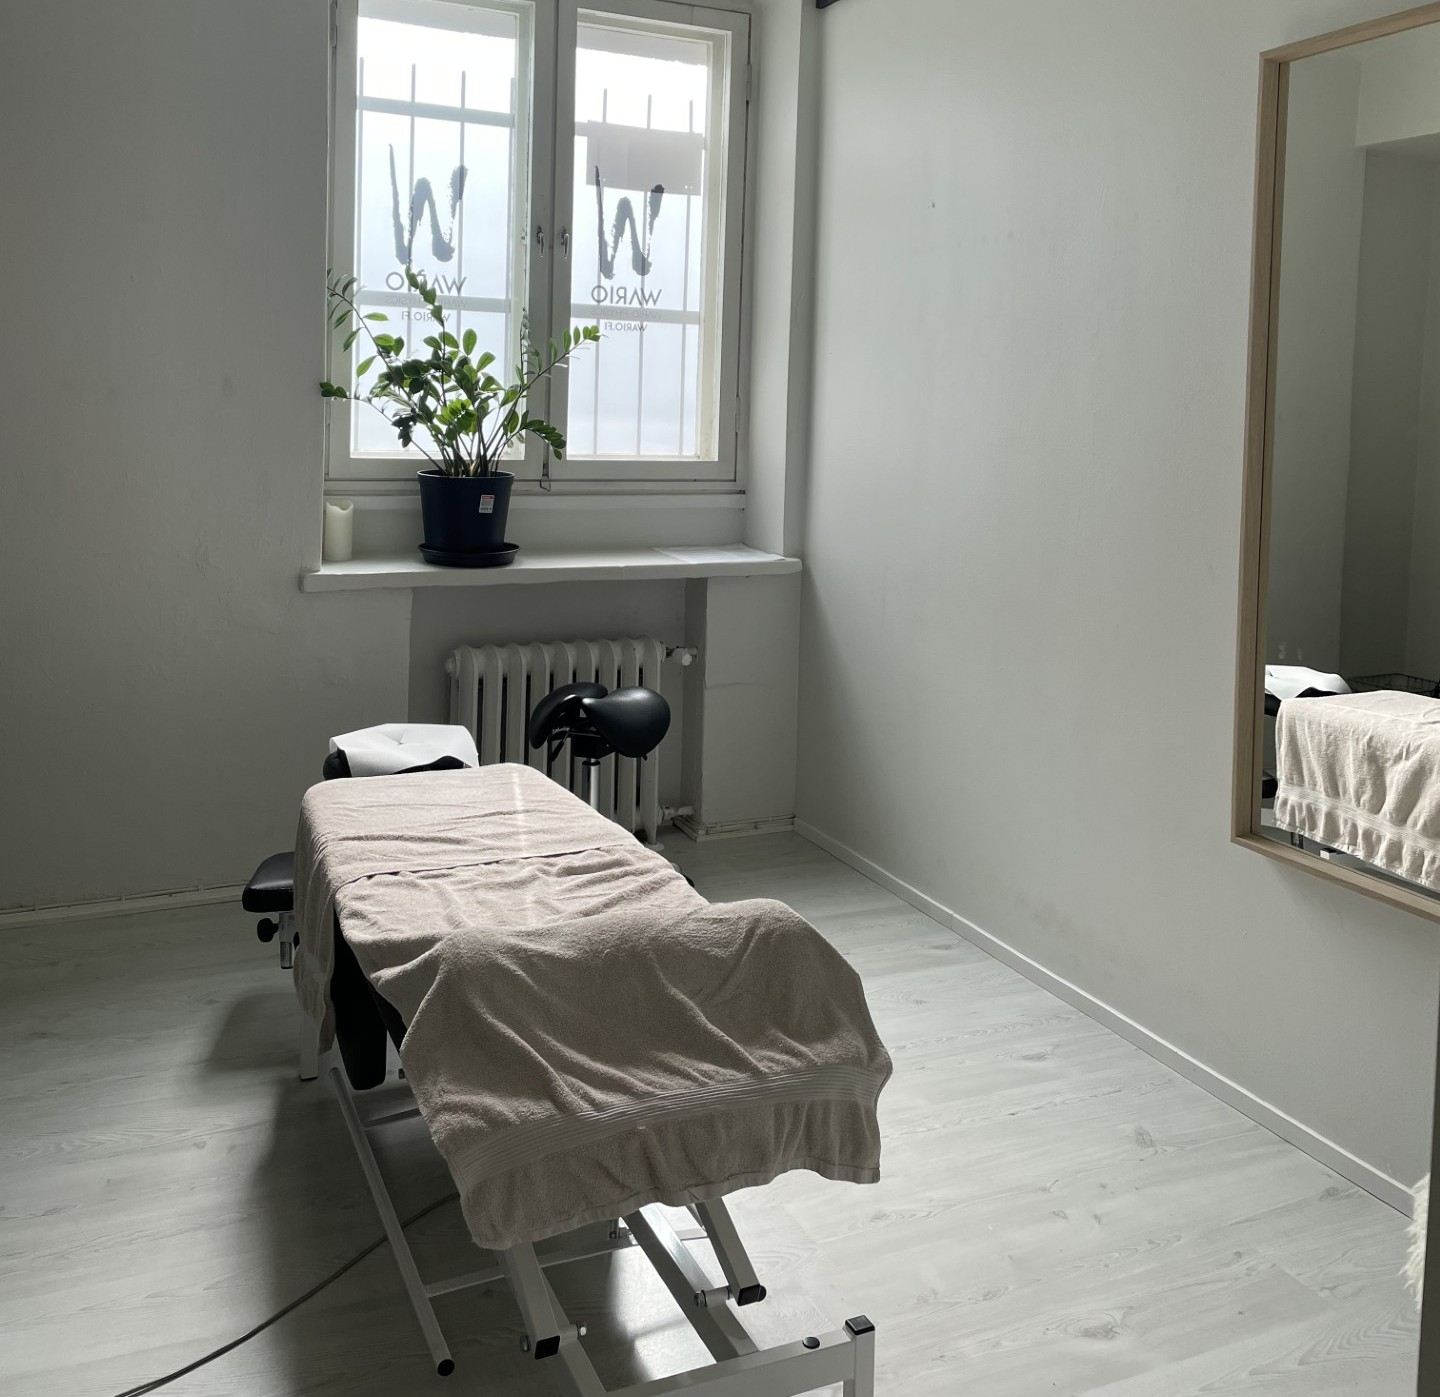
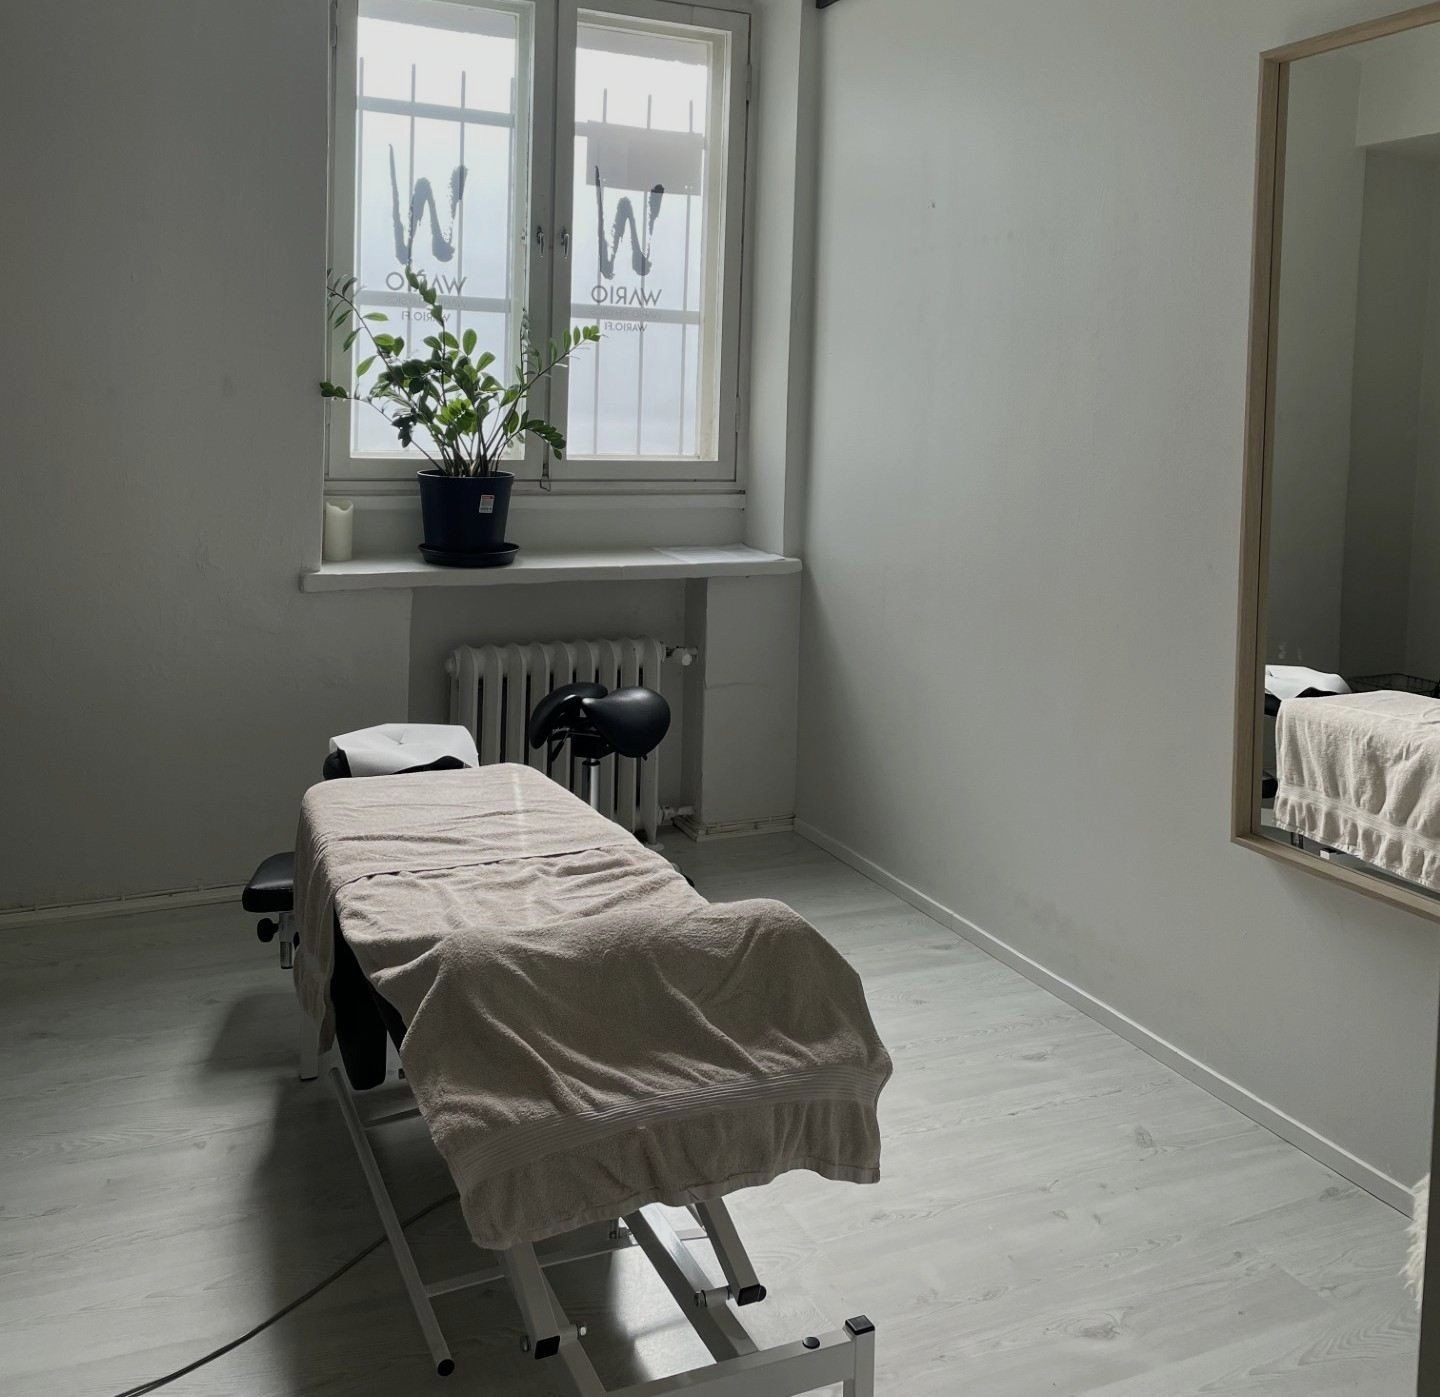
v

diff --git a/Nettisivut/tyylit.css b/Nettisivut/tyylit.css
@@ -93,7 +93,7 @@ nav a:hover {
 .toimintakehote {
     border: 1.5px solid #FFFFF0;
     border-radius: 10px;
-    background-color: #8fbc8f71;
+    background-color: #8fbc8f98;
     font-family: "Verdana", sans-serif;
     color: #FFFFF0;
     padding: 10px 32px;
@@ -108,7 +108,7 @@ nav a:hover {
 /* Etusivun asettelu */
 #etusivu {
     position: relative;
-    background-image: url("kuvat/paakuva-hieromapoyta.jpg");
+    background-image: url("kuvat/paakuva-hieromapoyta1.jpg");
     background-size: cover;
     background-position: center;
     height: 950px;
@@ -265,7 +265,7 @@ footer {
 /*mobiilikoko*/
 @media (max-width: 600px) {
     #etusivu {
-        background-image: url(kuvat/paakuva-hieromapoyta.jpg);
+        background-image: url(kuvat/paakuva-hieromapoyta1.jpg);
         background-size: cover;
         height: 400px;
     }
@@ -338,7 +338,7 @@ footer {
 /*tablettikoko*/
 @media screen and (min-width: 600px) {
     #etusivu {
-        background-image: url(kuvat/paakuva-hieromapoyta.jpg);
+        background-image: url(kuvat/paakuva-hieromapoyta1.jpg);
         background-size: cover;
         height: 600px;
     }
@@ -353,10 +353,10 @@ footer {
 
     #slogan {
         font-size: 40px;
-        padding-top: 100px;
+        padding-top: 110px;
         padding-bottom: 20px;
-        padding-left: 50px;
-        padding-right: 50px;
+        padding-left: 15px;
+        padding-right: 15px;
     }
 
     .toimintakehote {
@@ -401,7 +401,7 @@ footer {
 /*suuri näyttö*/
 @media screen and (min-width: 1200px) {
     #etusivu {
-        background-image: url(kuvat/paakuva-hieromapoyta.jpg);
+        background-image: url(kuvat/paakuva-hieromapoyta1.jpg);
         background-size: cover;
         height: 950px;
     }
